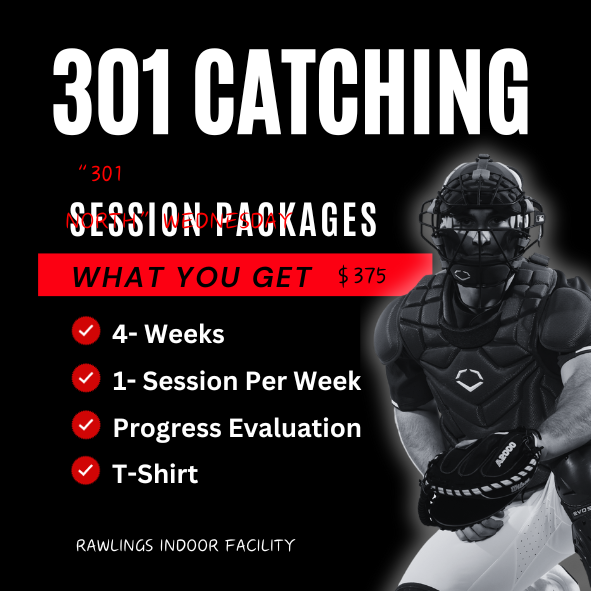
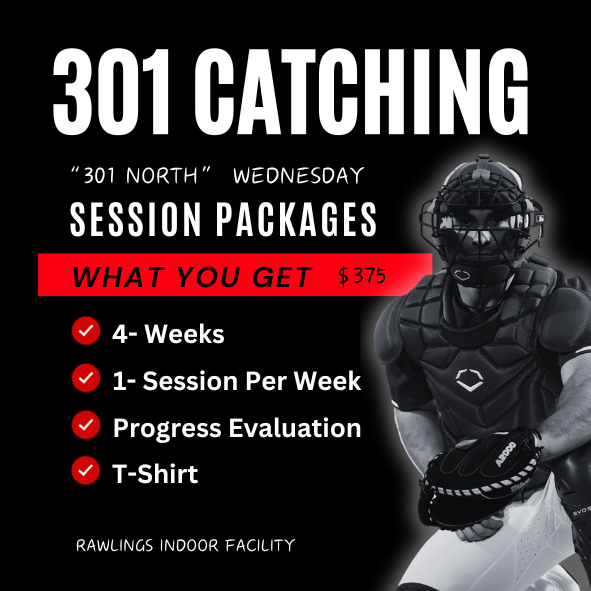
added components

Changed region(s): [[0.0914, 0.2741, 0.335, 0.3959], [0.3959, 0.2741, 0.6091, 0.335], [0.2741, 0.335, 0.4873, 0.3959]]

diff --git a/client/src/views/Home.jsx b/client/src/views/Home.jsx
@@ -22,7 +22,8 @@ const Home = () => {
       </Container>
 <br></br>
       <Container>
-        <Row className="justify-content-center ">
+        <Row className="justify-content-center bg-secondary-subtle"
+        style={{borderRadius:'.5rem', boxShadow:"4px 4px 8px rgba(0, 0, 0, 0.5)"}}>
         <br></br>
           <Col
             md={3}
@@ -171,10 +172,26 @@ const Home = () => {
             </motion.div>
           </Col>
         </Row>
+        </Container>
+        <br></br>
+        <br></br>
+        <Container className="bg-secondary-subtle p-5 text-black align-items-center justify-content-center"
+         style={{borderRadius:'.5rem', boxShadow:"4px 4px 8px rgba(0, 0, 0, 0.5)"}}>
+        
         <Row>
+        <Col md={6}>
+            <p>
+              <b>
+                <u>WHAT TO BRING</u>
+              </b>{" "}
+              <br></br>
+             cup, gear, mitt, drink, athletic shoes (no cleats)
+            </p>
+            </Col>
+            <Col md={3}>
         <p>
               <b>
-                <u>WHERE</u>
+              <u>"301 South" Location</u>
               </b>{" "}
               <br></br>
               The Impact Center<br></br>
@@ -194,7 +211,31 @@ const Home = () => {
                 250 W Bay Front Rd Lothian
               </a>
             </p>
-
+            </Col>
+            <Col md={3}>
+        <p>
+              <b>
+                <u>"301 North" Location</u>
+              </b>{" "}
+              <br></br>
+              The Impact Center<br></br>
+              <img
+                src="https://maps.gstatic.com/mapfiles/api-3/images/spotlight-poi.png"
+                alt="Google Maps Pin"
+                style={{
+                  height: "18px", // Set the desired height in pixels
+                  width: "auto", // Let the width adjust proportionally
+                }}
+              />
+              <a
+                href="https://www.google.com/maps?q=8288+Telegraph+Rd.+Odenton,+MD+21113"
+                style={{ fontSize: "14px" }}
+              >
+                {" "}
+               8288 Telegraph Rd. Odenton
+              </a>
+            </p>
+            </Col>
         </Row>
       </Container>
       <br></br>

diff --git a/client/src/assets/components/Footer/index.jsx b/client/src/assets/components/Footer/index.jsx
@@ -6,8 +6,8 @@ const Footer = () => {
     return (
         <div className="footer bg-black">
         <div className="container">
-        <Container className="d-flex justify-content-center text-center p-4 text-white">
-  <Col className="text-end p-2">
+        <Container className="d-flex justify-content-center p-4 text-white">
+  <Col className="d-flex text-center p-2">
     <p>Contact:
     <a href="tel:443-771-1708" className="text-white mx-2">
       <FaPhone />
@@ -22,8 +22,11 @@ const Footer = () => {
     </a>
     </p>
   </Col>
- 
-  <Col className="d-flex text-white p-2">
+
+  <Col className="d-flex text-center p-2">
+    <p>© 2023 301CATCHING</p>
+ </Col>
+  <Col className="d-flex text-center text-white p-2">
 
   <p>Follow:</p>
     <a
